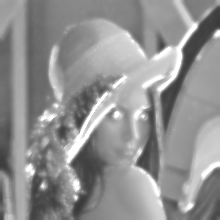
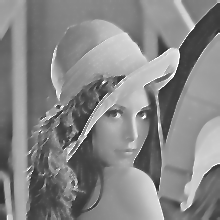
fixed problem with non edge blurring (problem in function D(x,y)) #14

diff --git a/src/rapport_snippets/output/nom_edge_blur/results.tex b/src/rapport_snippets/output/nom_edge_blur/results.tex
@@ -1,15 +1,25 @@
 \begin{figure}[!htb]
 \centering
+\subfloat[$\alpha = 0.25$\newline Iteration $= 3$]{%
+\includegraphics[width=0.3\textwidth, height=0.303030303030303\paperheight, keepaspectratio]{glatting/blur/alpha_0.25_epoch_3.png}}\hfill
+\subfloat[$\alpha = 0.25$\newline Iteration $= 5$]{%
+\includegraphics[width=0.3\textwidth, height=0.303030303030303\paperheight, keepaspectratio]{glatting/blur/alpha_0.25_epoch_5.png}}\hfill
+\subfloat[$\alpha = 0.25$\newline Iteration $= 10$]{%
+\includegraphics[width=0.3\textwidth, height=0.303030303030303\paperheight, keepaspectratio]{glatting/blur/alpha_0.25_epoch_10.png}}\\
 \subfloat[$\alpha = 0.5$\newline Iteration $= 1$]{%
-\includegraphics[width=0.3\textwidth, height=0.45454545454545453\paperheight, keepaspectratio]{glatting/blur/alpha_0.5_epoch_1.png}}\hfill
+\includegraphics[width=0.225\textwidth, height=0.303030303030303\paperheight, keepaspectratio]{glatting/blur/alpha_0.5_epoch_1.png}}\hfill
 \subfloat[$\alpha = 0.5$\newline Iteration $= 3$]{%
-\includegraphics[width=0.3\textwidth, height=0.45454545454545453\paperheight, keepaspectratio]{glatting/blur/alpha_0.5_epoch_3.png}}\hfill
+\includegraphics[width=0.225\textwidth, height=0.303030303030303\paperheight, keepaspectratio]{glatting/blur/alpha_0.5_epoch_3.png}}\hfill
 \subfloat[$\alpha = 0.5$\newline Iteration $= 5$]{%
-\includegraphics[width=0.3\textwidth, height=0.45454545454545453\paperheight, keepaspectratio]{glatting/blur/alpha_0.5_epoch_5.png}}\\
+\includegraphics[width=0.225\textwidth, height=0.303030303030303\paperheight, keepaspectratio]{glatting/blur/alpha_0.5_epoch_5.png}}\hfill
+\subfloat[$\alpha = 0.5$\newline Iteration $= 10$]{%
+\includegraphics[width=0.225\textwidth, height=0.303030303030303\paperheight, keepaspectratio]{glatting/blur/alpha_0.5_epoch_10.png}}\\
 \subfloat[$\alpha = 0.75$\newline Iteration $= 1$]{%
-\includegraphics[width=0.3\textwidth, height=0.45454545454545453\paperheight, keepaspectratio]{glatting/blur/alpha_0.75_epoch_1.png}}\hfill
+\includegraphics[width=0.225\textwidth, height=0.303030303030303\paperheight, keepaspectratio]{glatting/blur/alpha_0.75_epoch_1.png}}\hfill
 \subfloat[$\alpha = 0.75$\newline Iteration $= 3$]{%
-\includegraphics[width=0.3\textwidth, height=0.45454545454545453\paperheight, keepaspectratio]{glatting/blur/alpha_0.75_epoch_3.png}}\hfill
+\includegraphics[width=0.225\textwidth, height=0.303030303030303\paperheight, keepaspectratio]{glatting/blur/alpha_0.75_epoch_3.png}}\hfill
 \subfloat[$\alpha = 0.75$\newline Iteration $= 5$]{%
-\includegraphics[width=0.3\textwidth, height=0.45454545454545453\paperheight, keepaspectratio]{glatting/blur/alpha_0.75_epoch_5.png}}\\
+\includegraphics[width=0.225\textwidth, height=0.303030303030303\paperheight, keepaspectratio]{glatting/blur/alpha_0.75_epoch_5.png}}\hfill
+\subfloat[$\alpha = 0.75$\newline Iteration $= 10$]{%
+\includegraphics[width=0.225\textwidth, height=0.303030303030303\paperheight, keepaspectratio]{glatting/blur/alpha_0.75_epoch_10.png}}\\
 \end{figure}

diff --git a/src/backend/non_edge_blurring.py b/src/backend/non_edge_blurring.py
@@ -27,9 +27,9 @@ class non_edge_blur(image_handler.ImageHandler, poisson.poisson, boundary.Bounda
         boundary.Boundary.__init__(self)
         self.alpha = 0.25
 
-    def D(self, k=25) -> Array:
+    def D(self, k=100) -> Array:
         fraction = 1 / \
-                   1 + k * (self.get_gradient_norm(self.data_copy)) ** 2
+                   (1 + k * (self.get_gradient_norm(self.data_copy)) ** 2)
         return fraction
 
     def iteration(self) -> Array: 
@@ -39,10 +39,12 @@ class non_edge_blur(image_handler.ImageHandler, poisson.poisson, boundary.Bounda
 		"""
         laplace = self.get_laplace()
 
-        d_x, d_y = self.get_gradient(self.D())
-        combined = (d_x + d_y)[1:-1, 1:-1]
+    #    print("D {}", self.D().max())
 
+        d_x, d_y = self.get_gradient(self.D())
         data_x, data_y = self.get_gradient(self.data)
+        combined = (d_x  + d_y )[1:-1, 1:-1]
+
         combined *= (data_x + data_y)[1:-1, 1:-1]
 
         self.data[1:-1, 1:-1] += (self.alpha * (laplace * self.D()[1:-1, 1:-1]) + combined).clip(0, 1)

diff --git a/src/rapport_snippets/non_edge_blurring.py b/src/rapport_snippets/non_edge_blurring.py
@@ -1,24 +1,14 @@
-#from gui.interfaces import blurring_qt
 
 from PIL import Image
 from rapport_snippets.figs import *
 from backend import non_edge_blurring
 
-'''
-"""
-Basic snippet !
-"""
-blur_object = blurring.blur("./files/test_images/lena.png", False)
-blur_object.fit(13)
-blur_object.save("test.png")
-'''
-
-blurring_obj = non_edge_blurring.non_edge_blur("./files/test_images/lena.png", True)
+blurring_obj = non_edge_blurring.non_edge_blur("./files/test_images/lena.png", False)
 
 epoch_count = {
-#	0.25:[3, 5, 10],
-	0.5:[1, 3, 5],
-	0.75:[1, 3, 5]
+	0.25:[3, 5, 10],
+	0.5:[1, 3, 5, 10],
+	0.75:[1, 3, 5, 10]
 }
 
 results_doc = compile_doc(blurring_obj, epoch_count, "./rapport_snippets/output/nom_edge_blur/", "glatting/blur")

diff --git a/src/snippets.py b/src/snippets.py
@@ -4,8 +4,8 @@
 #from rapport_snippets import matting
 #from rapport_snippets import anonymizing
 #from rapport_snippets import demosaic
-#from rapport_snippets import non_edge_blurring
-from rapport_snippets import grayscale
+from rapport_snippets import non_edge_blurring
+#from rapport_snippets import grayscale
 
 """
 Write code snippets used for the figures in the report here
